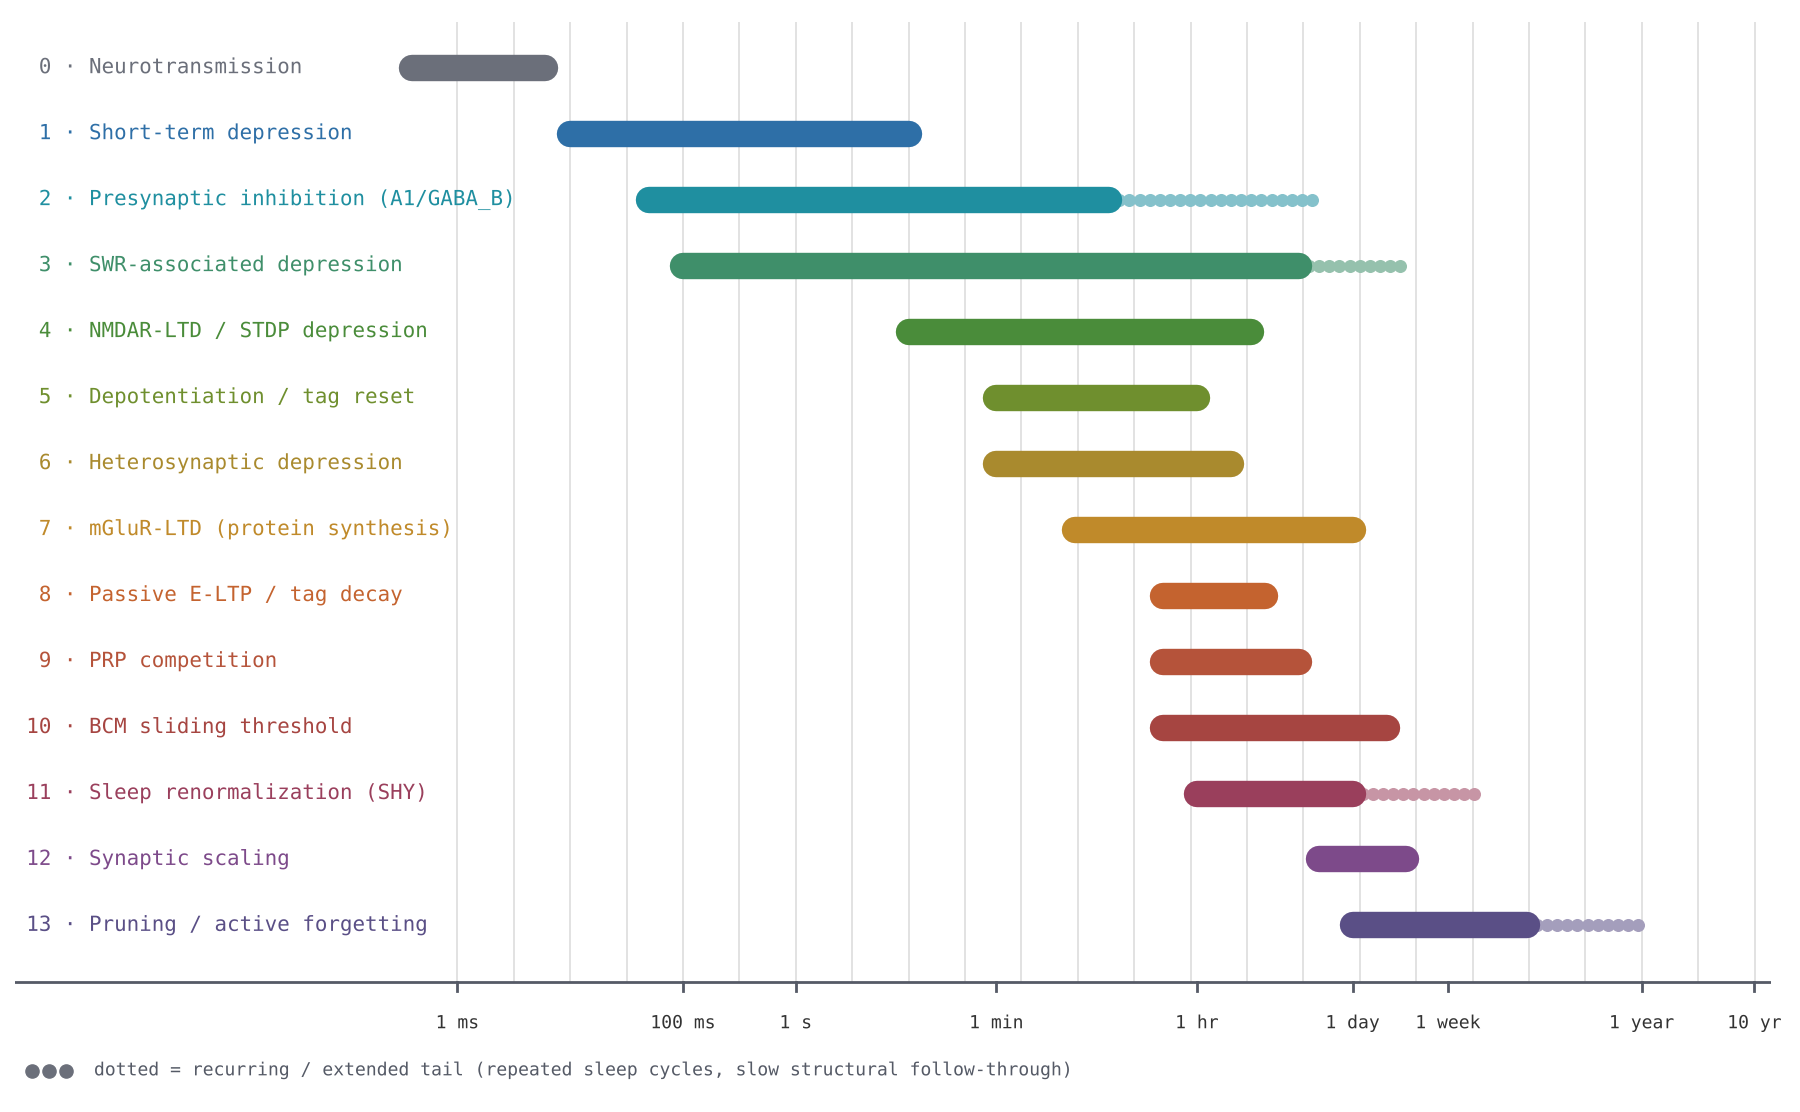
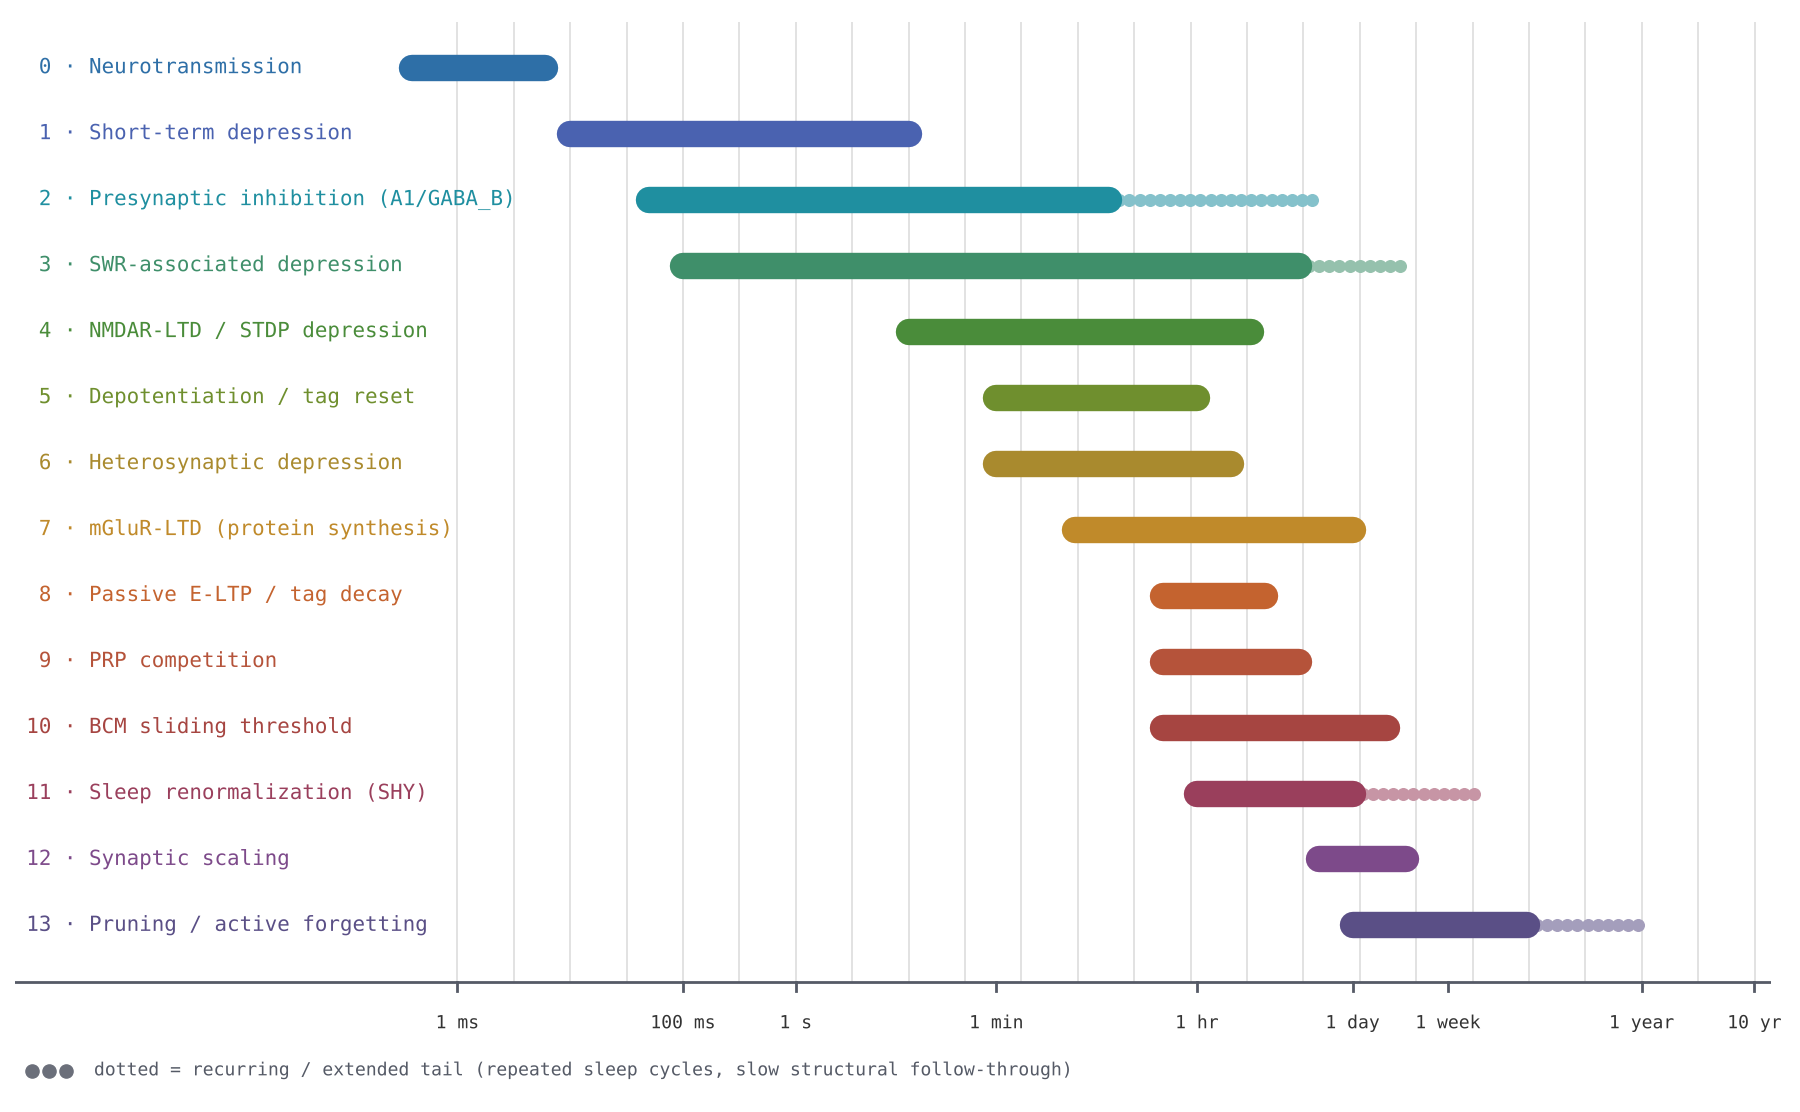
Fig. D1: draw neurotransmission in model Fig. 1 blue; remove test line
Row 0 now uses the colour of row 1 in figures/timescale_axis.png
(#2e6fa7); short-term depression moves to #4a62b0 to stay distinct.
Drop the push-check HTML comment from the downscaling doc.

Claude-Session: https://claude.ai/code/session_01RKYE5h3gYyuRHgtMvBFHKq

Changed region(s): [[0.3111, 0.0917, 0.5289, 0.1529], [0.2178, 0.0306, 0.3111, 0.0917]]

diff --git a/figures/make_downscaling_timescale_axis.py b/figures/make_downscaling_timescale_axis.py
@@ -19,7 +19,7 @@ MS, S, MIN, HR, DAY, WK, YR = 1e-3, 1.0, 60.0, 3600.0, 86400.0, 604800.0, 3.156e
 # Rows are drawn in order of onset (start_s), ties broken by end_s, so the
 # bars form a staircase like figures/timescale_axis.png.
 MECHANISMS = sorted([
-    ("Short-term depression",          10 * MS, 10 * S,  None,     "#2e6fa7"),
+    ("Short-term depression",          10 * MS, 10 * S,  None,     "#4a62b0"),
     ("Presynaptic inhibition (A1/GABA_B)", 50 * MS, 10 * MIN, 12 * HR, "#1f8fa0"),
     ("SWR-associated depression",      100 * MS, 8 * HR, 3 * DAY,  "#3f8f6a"),
     ("NMDAR-LTD / STDP depression",    10 * S,  3 * HR,  None,     "#4a8c3a"),
@@ -34,9 +34,8 @@ MECHANISMS = sorted([
     ("Pruning / active forgetting",    1 * DAY, 5 * WK,  1 * YR,   "#5a4f86"),
 ], key=lambda m: (m[1], m[2]))
 
-# Reference row: same span as row 1 of figures/src/make_timescale_axis.py, drawn in grey
-# because row 1 here (short-term depression) already uses that figure's blue.
-REFERENCE = ("Neurotransmission", 4e-4, 6 * MS, None, "#6b6f7a")
+# Reference row: same span and colour as row 1 of figures/src/make_timescale_axis.py.
+REFERENCE = ("Neurotransmission", 4e-4, 6 * MS, None, "#2e6fa7")
 
 TICKS = [(1 * MS, "1 ms"), (100 * MS, "100 ms"), (1 * S, "1 s"), (1 * MIN, "1 min"),
          (1 * HR, "1 hr"), (1 * DAY, "1 day"), (1 * WK, "1 week"),

diff --git a/hippocampal_downscaling_mechanisms.md b/hippocampal_downscaling_mechanisms.md
@@ -9,10 +9,10 @@ entry gives its timescale, its hook in the circuit model (model §2 tag/capture,
 synaptic-area "activity-dependent weight decay", model §2.1 `V_seg`, model §3 replay), and its primary
 literature.
 
-![Thirteen synaptic downscaling mechanisms on the same logarithmic time axis as Fig. 1 of the model document, from 1 ms to 10 years, ordered by onset so the bars form a descending staircase. A grey reference row 0, neurotransmission at 0.4–6 ms, sits above them. Short-term depression, presynaptic inhibition and SWR-associated depression start in the millisecond range; Hebbian, heterosynaptic and tag-related depression start at seconds to minutes; BCM metaplasticity, sleep renormalization and synaptic scaling start at tens of minutes to hours; pruning and active forgetting start at days and extend to a year.](figures/downscaling_timescale_axis.png)
+![Thirteen synaptic downscaling mechanisms on the same logarithmic time axis as Fig. 1 of the model document, from 1 ms to 10 years, ordered by onset so the bars form a descending staircase. A reference row 0, neurotransmission at 0.4–6 ms, sits above them. Short-term depression, presynaptic inhibition and SWR-associated depression start in the millisecond range; Hebbian, heterosynaptic and tag-related depression start at seconds to minutes; BCM metaplasticity, sleep renormalization and synaptic scaling start at tens of minutes to hours; pruning and active forgetting start at days and extend to a year.](figures/downscaling_timescale_axis.png)
 
 *Fig. D1. Downscaling mechanisms on the log time axis of model Fig. 1, ordered
-by onset (ties broken by end), as in Fig. 1. Row 0 (grey) is neurotransmission,
+by onset (ties broken by end), as in Fig. 1. Row 0 is neurotransmission,
 drawn with the span of model Fig. 1 row 1 (~0.4–6 ms) as the common fastest
 reference. It is not a downscaling mechanism. A bar's position marks onset and its
 length marks characteristic duration. Dotted tails
@@ -505,5 +505,3 @@ Plausibility grades from the section above are given in brackets.
    and any timescale compression factor must be stated.
 5. **#12** [Conditional]. Multiplicative scaling, only with a stated compression factor,
    and as an on/off hypothesis.
-
-<!-- test text: push check -->
